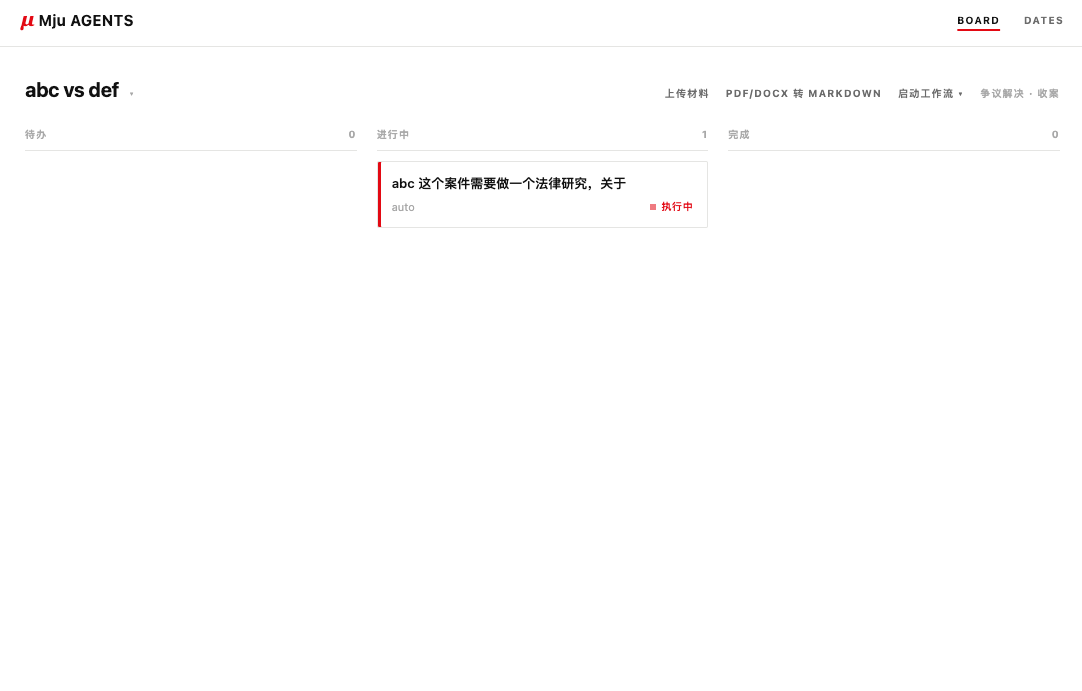
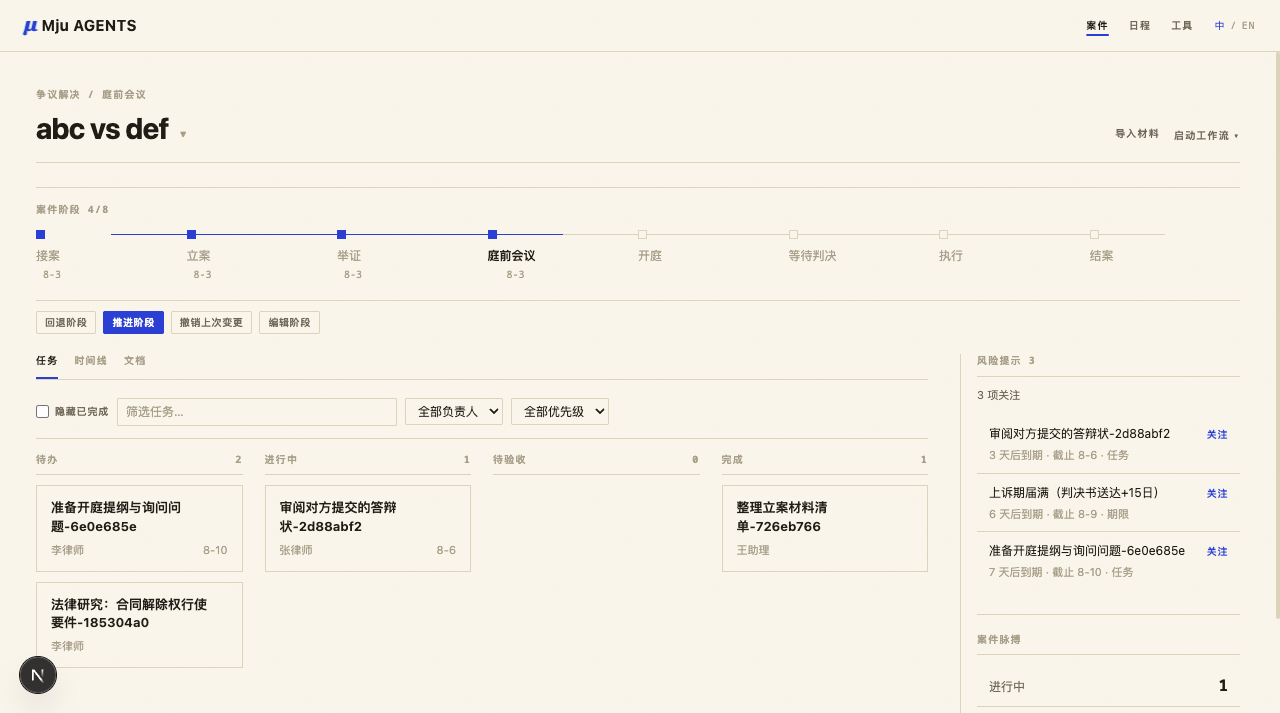
docs: README 按新理念调整（五个页面/驾驶舱/圆珠笔蓝）+ 截图重拍 + zh-CN 同步 + roadmap 状态更新 (#38)

diff --git a/README.zh-CN.md b/README.zh-CN.md
@@ -2,77 +2,54 @@
 
 [npm](https://www.npmjs.com/package/@tttangerine/mju) · [许可证：MIT](./LICENSE) · [路线图](./docs/roadmap.md)
 
-> 你的严格但公正的法律助手：从一句话开始，把经过复核的工作落到正确案件里。
+> Mju 用 AI 替你干活，你在看板验收成果、在日历核对时间。从一句话开始。
 
 ![Mju Agents 进入页](./docs/screenshots/entry-empty.png)
 
 <p align="center">
-  <img src="./docs/screenshots/onboarding.png" alt="Mju 项目初始化" width="49%" />
-  <img src="./docs/screenshots/case-detection.png" alt="Mju 案件识别" width="49%" />
+  <img src="./docs/screenshots/case-board-running.png" alt="Mju 案件驾驶舱看板" width="32%" />
+  <img src="./docs/screenshots/dates.png" alt="Mju 全局 Dates" width="32%" />
+  <img src="./docs/screenshots/tools.png" alt="Mju 工具页" width="32%" />
 </p>
 
-<p align="center">
-  <img src="./docs/screenshots/new-case.png" alt="Mju 新建案件" width="49%" />
-  <img src="./docs/screenshots/case-board-running.png" alt="Mju 运行中的案件看板" width="49%" />
-</p>
+## 截图导览：一条主线，四个场景
 
-截图使用完全虚构的案件和任务数据，不包含客户、案件或账户信息。
+下面这组截图对应一条完整的使用路径：从一句话发起任务，到看板推进与验收，再到日历核对和确定性计算。截图使用虚构的案件与任务数据，不包含任何客户、案件或账户信息。
 
-## 截图导览：从初始化到案件执行
-
-下面这组截图对应一条完整的使用路径：先选择项目文件夹，再从一句话发起任务，让 Mju 识别案件归属，最后进入案件看板推进。
-
-### 1. 初始化项目文件夹
-
-![Mju 项目初始化](./docs/screenshots/onboarding.png)
-
-首次进入 Mju 时，需要选择一个项目文件夹。这个文件夹可以是现有 Obsidian 文件库，也可以是一个空文件夹。
-
-- 勾选「生成标准结构」后，Mju 会创建案件、任务、期限、日程等基础目录，便于后续按案件归档。
-- 勾选「写入 Agent 指导文件」后，Mju 会在项目中写入 `AGENTS.md`，让 Agent 明确这个项目的案件结构和写作规则。
-- 如果选择的是 Obsidian vault，Mju 会尽量识别既有 `ops/cases`、`ops/projects` 等目录，不要求你迁移到一个封闭数据库里。
-
-### 2. 在进入页输入任务
+### 1. 在进入页输入任务
 
 ![Mju 进入页](./docs/screenshots/entry-empty.png)
 
-初始化后会进入主输入页。这里不是普通聊天窗口，而是整个系统的入口。
+进入页只有一个输入框。用日常语言描述事项，Mju 会识别所属案件（识别错了随时可改），在该案件文件夹里启动 Agent，并把原始指令保存为任务。
 
-- 在输入框里直接写要处理的事项，例如「这个案件需要做一个法律研究」。
+- 输入框下方常驻「近期在办」与「优先处理」，不用打字也能看到各案件即将到期和高风险的事项。
 - 右上角可以切换当前项目，也可以点击「新建案件」补建案卷。
-- 输入框下方的 Models、Skills、Agents、Plugins、MinerU、Theme 是运行配置入口，用于切换模型、管理技能、配置子 Agent、配置插件和材料转换能力。
-- 页面下方的「近期在办」用于聚合各案件即将跟进的事项。
+- 页面下方的运行配置入口用于切换模型、管理技能、配置子 Agent、插件与材料转换能力。
 
-### 3. 新建案件并选择类型
+### 2. 在案件看板推进与验收
 
-![Mju 新建案件](./docs/screenshots/new-case.png)
+![Mju 案件看板](./docs/screenshots/case-board-running.png)
 
-如果任务还没有对应案卷，可以在进入页直接新建案件。截图里的「abc vs def」是一个虚构案件名。
+每个案件一个卷宗式驾驶舱：诉讼案件顶部是接案到结案的阶段流程线，下方是任务、时间线、文档选项卡与「优先处理」风险条。
 
-- 案件类型目前区分为争议解决、顾问、专项等，用来决定默认结构和后续工作流。
-- 创建后，案件会进入当前项目的案件列表，后续任务可以直接归属到这个案件。
-- 无法识别归属的任务会进入「通用任务」，避免任务丢失。
+- 任务以四列看板呈现——待办、进行中、待验收、完成——卡片可直接拖拽换列，也支持按关键词、负责人、优先级筛选与隐藏已完成。
+- Agent 执行完毕后任务自动落入「待验收」列，你验收通过才算完成；不满意可打回继续处理。
+- 右上角集中放置案件动作：导入材料、启动工作流、收案。本地 PDF/DOCX 等文件会自动转为 Markdown 沉淀到案卷。
 
-### 4. 识别案件归属并启动 Agent
+### 3. 在 Dates 核对日历
 
-![Mju 案件识别](./docs/screenshots/case-detection.png)
+![Mju 全局 Dates](./docs/screenshots/dates.png)
 
-当你输入任务时，Mju 会根据任务内容识别所属案件。截图中系统将任务识别到「abc vs def」。
+跨案件聚合所有任务截止、诉讼期限和日程，列表 / 周 / 月三种视图，一眼看清近期要跟进什么。
 
-- 如果识别正确，直接点击发送按钮即可启动。
-- 如果识别错误，点击「更改」可以搜索并切换到正确案件。
-- 启动后，Mju 会在该案件文件夹内开启 Agent 会话，并把原始指令保存为案件任务。
+- 材料导入后按法律规则推算的候选期限（如判决书 → 上诉期届满 +15 日）以「待确认」身份进入 Dates，你确认才生效。
+- 到期与逾期用红色倒计时提示，不会漏掉任何一个期限。
 
-### 5. 在案件看板推进
+### 4. 在工具页做确定性计算
 
-![Mju 运行中的案件看板](./docs/screenshots/case-board-running.png)
+![Mju 工具页](./docs/screenshots/tools.png)
 
-任务启动后会进入案件看板。每个案件都有独立看板，用于管理待办、执行中和已完成事项。
-
-- 正在运行的任务会出现在「进行中」列，并显示执行状态。
-- 看板右上角集中放置案件动作：导入材料、启动工作流、争议解决收案。
-- 选取本地 PDF/DOCX 等文件后，系统会自动转为 Markdown 并沉淀到案卷；已有 Markdown 或文本材料则直接归档分析。
-- 任务完成后仍需要人工 Review；Mju 的定位是辅助形成工作成果，不替代律师判断。
+诉讼费、保全费、律师费、迟延履行利息、日期推算、金额转人民币大写，全部由确定性函数得出。Agent 写文书和人工核查数字都用同一套结果，法律文书的数字不会错。
 
 ## 为什么做 Mju
 
@@ -84,7 +61,7 @@
 
 - **每段对话都有目的。** Mju 里的每次对话都落在某一个具体案件里，而不是悬空的闲聊——闲聊请去 ChatBot。案件是法律工作的天然容器：材料、文书、期限、日程、经验，全都应该收在案件里。
 - **入口替你归位。** 输入指令时，Mju 会主动识别它属于哪个案件（识别错了随时可改），顺手把任务、日程、截止时间落下来，并在到期前提醒你。识别不了的先进「通用任务」收件箱，不会丢。
-- **做完不等于完成。** 法律工作需要复核。Agent 产出的每件事都停在「待 Review」状态，由你过目后才算数。
+- **做完不等于完成。** 法律工作需要复核。Agent 产出的每件事都停在「待验收」列，由你过目——材料时限要确认、文案成果要验收——才算数。
 
 ## 从一句话到经你复核的工作
 
@@ -96,12 +73,13 @@
 
 ## 工作台结构
 
-四个页面，就是上面这条主线的展开：
+五个页面，就是上面这条主线的展开：
 
-- **进入页（`/`）**——只有一个输入框。输入指令，自动识别归属案件，在该案件文件夹里启动 Agent 会话。输入框下方常驻「近期在办」，不用打字也能看到各案件即将到期的事项。
-- **案件看板（`/board/[caseId]`）**——每个案件一个看板，回答两个问题：这个案子还有哪些待办？哪些做完了等我 Review？Agent 正在执行的任务卡片上有脉冲标记。
-- **任务子页（`/task/[taskId]`）**——点开任务卡片进入执行现场：左栏是 Agent 的完整工作过程（流式输出、工具调用、分支、导出），右栏是它正在撰写的文档的实时预览，边看边 Review。复杂任务会自动分派给不同的子 Agent——不同模型各有所长，组成 Agent Team 既省 Token、提高命中率，也让产出更贴近各自的标准。
-- **全局 Dates（`/dates`）**——跨案件聚合所有任务截止、诉讼期限和日程，列表 / 周 / 月三种视图，一眼看清近期要跟进什么。
+- **进入页（`/`）**——只有一个输入框。输入指令，自动识别归属案件，在该案件文件夹里启动 Agent 会话。输入框下方常驻「近期在办」与「优先处理」，不用打字也能看到各案件即将到期和高风险的事项。
+- **案件看板（`/board/[caseId]`）**——每个案件一个卷宗式驾驶舱，回答两个问题：这个案子还有哪些待办？哪些做完了等我验收？诉讼案件顶部有从接案到结案的八阶段流程线（可推进 / 回退 / 补记大事记），下方是任务 / 时间线 / 文档三个选项卡与「优先处理」风险条。任务以四列看板呈现——待办、进行中、待验收、完成——卡片可直接拖拽换列，也支持按关键词、负责人、优先级筛选与隐藏已完成。
+- **任务子页（`/task/[taskId]`）**——点开任务卡片进入执行现场：左栏是 Agent 的完整工作过程（流式输出、工具调用、分支、导出），右栏是它正在撰写的文档的实时预览，边看边验收。复杂任务会自动分派给不同的子 Agent——不同模型各有所长，组成 Agent Team 既省 Token、提高命中率，也让产出更贴近各自的标准。
+- **全局 Dates（`/dates`）**——跨案件聚合所有任务截止、诉讼期限和日程，列表 / 周 / 月三种视图，一眼看清近期要跟进什么。材料导入后按法律规则推算的候选期限会以「待确认」身份出现在这里，你确认才生效。
+- **工具页（`/tools`）**——确定性法律计算引擎：诉讼费、保全费、律师费、迟延履行利息、日期推算、金额转人民币大写，全部由确定性函数得出，Agent 写文书和人工核查数字都用同一套结果。
 
 ## 快速开始
 
@@ -139,7 +117,10 @@ mju --no-open                # 不自动打开浏览器
 - **Agent 团队**：可配置的子 Agent（默认 Justice / Magician / Chariot），各自独立的模型、工具和技能；遇到复杂任务运行时会自动分派。
 - **材料自动化**：在案件看板选取本地材料，PDF/DOCX 等文件自动转为 Markdown，已有 Markdown 或文本材料直接归档；系统随后识别起诉状、判决书、合同等类型并归位，生成审阅任务和关键期限。
 - **期限自动聚合**：任务截止、举证期限、开庭日程合并进同一个全局 Dates 视图，逾期标红。
-- **瑞士风设计**：纸白 / 墨黑双主题，全场唯一的信号红点缀，没有多余装饰。
+- **Agent 推算期限，你确认才生效**：材料导入后，按法律规则推算出候选期限（判决书→上诉期 15 天、裁定书→10 天、保全→续封提醒），以「待确认」身份进入 Dates，你确认才参与到期提醒。法律推理有依据，不用自己算每个日期。
+- **干完活落待验收，你过目才算完成**：Agent 任务执行完毕后自动进入「待验收」列，你在看板上验收通过才算完成；不满意可打回继续处理。
+- **确定性计算引擎**：诉讼费、迟延履行利息、金额大写等由确定性函数算出，Agent 写文书时也调用同一接口，法律文书的数字不会错。这些计算器也作为「工具」页独立可用。
+- **瑞士风设计**：纸白 / 墨黑双主题，圆珠笔蓝作为唯一功能强调色，红只留给到期与逾期；没有多余装饰。
 - **本地优先**：会话存在 `~/.pi/agent/sessions`，项目元数据存在 `~/.mju/projects`，数据不出本机。pi 运行时和 `pi-subagents` 已内置，无需单独安装 CLI。
 
 它不是法律意见服务，也不替代专业复核。所有会话文件、案件元数据和凭证都留在你自己的机器上。
@@ -172,3 +153,7 @@ npm run dev    # http://localhost:30143（开发测试端口）
 ```
 
 检查：`npm run typecheck`、`npm run lint`、`npm run test:backend`。开发时不要跑 `next build`。完整文件地图和设计决策见 [AGENTS.md](./AGENTS.md)。
+
+### 发布 npm
+
+合并版本变更后，在 GitHub 仓库的 **Actions** 中运行“**发布版本**”，输入与 `package.json` 和 `CHANGELOG.md` 一致的版本号（例如 `1.8.2`）。工作流会校验版本和更新日志、创建对应版本标签、运行完整校验、发布 npm，并自动创建 GitHub Release。

diff --git a/README.md b/README.md
@@ -7,75 +7,49 @@
 ![Mju Agents 进入页](./docs/screenshots/entry-empty.png)
 
 <p align="center">
-  <img src="./docs/screenshots/onboarding.png" alt="Mju 项目初始化" width="49%" />
-  <img src="./docs/screenshots/case-detection.png" alt="Mju 案件识别" width="49%" />
-</p>
-
-<p align="center">
-  <img src="./docs/screenshots/new-case.png" alt="Mju 新建案件" width="32%" />
-  <img src="./docs/screenshots/case-board-running.png" alt="Mju 运行中的案件看板" width="32%" />
+  <img src="./docs/screenshots/case-board-running.png" alt="Mju 案件驾驶舱看板" width="32%" />
   <img src="./docs/screenshots/dates.png" alt="Mju 全局 Dates" width="32%" />
+  <img src="./docs/screenshots/tools.png" alt="Mju 工具页" width="32%" />
 </p>
 
-> 截图展示的目标状态：工具页（确定性计算引擎）、四列看板（含待验收列）、Dates 视图（含待确认期限与到期倒计时）。请参见各 PR 合入后补录。
+## 截图导览：一条主线，四个场景
 
+下面这组截图对应一条完整的使用路径：从一句话发起任务，到看板推进与验收，再到日历核对和确定性计算。截图使用虚构的案件与任务数据，不包含任何客户、案件或账户信息。
 
-
-## 截图导览：从初始化到案件执行
-
-下面这组截图对应一条完整的使用路径：先选择项目文件夹，再从一句话发起任务，让 Mju 识别案件归属，最后进入案件看板推进。
-
-### 1. 初始化项目文件夹
-
-![Mju 项目初始化](./docs/screenshots/onboarding.png)
-
-首次进入 Mju 时，需要选择一个项目文件夹。这个文件夹可以是现有 Obsidian 文件库，也可以是一个空文件夹。
-
-- 勾选「生成标准结构」后，Mju 会创建案件、任务、期限、日程等基础目录，便于后续按案件归档。
-- 勾选「写入 Agent 指导文件」后，Mju 会在项目中写入 `AGENTS.md`，让 Agent 明确这个项目的案件结构和写作规则。
-- 如果选择的是 Obsidian vault，Mju 会尽量识别既有 `ops/cases`、`ops/projects` 等目录，不要求你迁移到一个封闭数据库里。
-
-### 2. 在进入页输入任务
+### 1. 在进入页输入任务
 
 ![Mju 进入页](./docs/screenshots/entry-empty.png)
 
-初始化后会进入主输入页。这里不是普通聊天窗口，而是整个系统的入口。
+进入页只有一个输入框。用日常语言描述事项，Mju 会识别所属案件（识别错了随时可改），在该案件文件夹里启动 Agent，并把原始指令保存为任务。
 
-- 在输入框里直接写要处理的事项，例如「这个案件需要做一个法律研究」。
+- 输入框下方常驻「近期在办」与「优先处理」，不用打字也能看到各案件即将到期和高风险的事项。
 - 右上角可以切换当前项目，也可以点击「新建案件」补建案卷。
-- 输入框下方的 Models、Skills、Agents、Plugins、MinerU、Theme 是运行配置入口，用于切换模型、管理技能、配置子 Agent、配置插件和材料转换能力。
-- 页面下方的「近期在办」用于聚合各案件即将跟进的事项。
+- 页面下方的运行配置入口用于切换模型、管理技能、配置子 Agent、插件与材料转换能力。
 
-### 3. 新建案件并选择类型
+### 2. 在案件看板推进与验收
 
-![Mju 新建案件](./docs/screenshots/new-case.png)
+![Mju 案件看板](./docs/screenshots/case-board-running.png)
 
-如果任务还没有对应案卷，可以在进入页直接新建案件。截图里的「abc vs def」是一个虚构案件名。
+每个案件一个卷宗式驾驶舱：诉讼案件顶部是接案到结案的阶段流程线，下方是任务、时间线、文档选项卡与「优先处理」风险条。
 
-- 案件类型目前区分为争议解决、顾问、专项等，用来决定默认结构和后续工作流。
-- 创建后，案件会进入当前项目的案件列表，后续任务可以直接归属到这个案件。
-- 无法识别归属的任务会进入「通用任务」，避免任务丢失。
+- 任务以四列看板呈现——待办、进行中、待验收、完成——卡片可直接拖拽换列，也支持按关键词、负责人、优先级筛选与隐藏已完成。
+- Agent 执行完毕后任务自动落入「待验收」列，你验收通过才算完成；不满意可打回继续处理。
+- 右上角集中放置案件动作：导入材料、启动工作流、收案。本地 PDF/DOCX 等文件会自动转为 Markdown 沉淀到案卷。
 
-### 4. 识别案件归属并启动 Agent
+### 3. 在 Dates 核对日历
 
-![Mju 案件识别](./docs/screenshots/case-detection.png)
+![Mju 全局 Dates](./docs/screenshots/dates.png)
 
-当你输入任务时，Mju 会根据任务内容识别所属案件。截图中系统将任务识别到「abc vs def」。
+跨案件聚合所有任务截止、诉讼期限和日程，列表 / 周 / 月三种视图，一眼看清近期要跟进什么。
 
-- 如果识别正确，直接点击发送按钮即可启动。
-- 如果识别错误，点击「更改」可以搜索并切换到正确案件。
-- 启动后，Mju 会在该案件文件夹内开启 Agent 会话，并把原始指令保存为案件任务。
+- 材料导入后按法律规则推算的候选期限（如判决书 → 上诉期届满 +15 日）以「待确认」身份进入 Dates，你确认才生效。
+- 到期与逾期用红色倒计时提示，不会漏掉任何一个期限。
 
-### 5. 在案件看板推进
+### 4. 在工具页做确定性计算
 
-![Mju 运行中的案件看板](./docs/screenshots/case-board-running.png)
+![Mju 工具页](./docs/screenshots/tools.png)
 
-任务启动后会进入案件看板。每个案件都有独立看板，用于管理待办、执行中和已完成事项。
-
-- 正在运行的任务会出现在「进行中」列，并显示执行状态。
-- 看板右上角集中放置案件动作：导入材料、启动工作流、争议解决收案。
-- 选取本地 PDF/DOCX 等文件后，系统会自动转为 Markdown 并沉淀到案卷；已有 Markdown 或文本材料则直接归档分析。
-- 任务完成后仍需要人工 Review；Mju 的定位是辅助形成工作成果，不替代律师判断。
+诉讼费、保全费、律师费、迟延履行利息、日期推算、金额转人民币大写，全部由确定性函数得出。Agent 写文书和人工核查数字都用同一套结果，法律文书的数字不会错。
 
 ## 为什么做 Mju
 
@@ -87,7 +61,7 @@
 
 - **每段对话都有目的。** Mju 里的每次对话都落在某一个具体案件里，而不是悬空的闲聊——闲聊请去 ChatBot。案件是法律工作的天然容器：材料、文书、期限、日程、经验，全都应该收在案件里。
 - **入口替你归位。** 输入指令时，Mju 会主动识别它属于哪个案件（识别错了随时可改），顺手把任务、日程、截止时间落下来，并在到期前提醒你。识别不了的先进「通用任务」收件箱，不会丢。
-	- **做完不等于完成。** 法律工作需要复核。Agent 产出的每件事都停在「待验收」列，由你过目——材料时限要确认、文案成果要验收——才算数。
+- **做完不等于完成。** 法律工作需要复核。Agent 产出的每件事都停在「待验收」列，由你过目——材料时限要确认、文案成果要验收——才算数。
 
 ## 从一句话到经你复核的工作
 
@@ -99,12 +73,13 @@
 
 ## 工作台结构
 
-四个页面，就是上面这条主线的展开：
+五个页面，就是上面这条主线的展开：
 
-- **进入页（`/`）**——只有一个输入框。输入指令，自动识别归属案件，在该案件文件夹里启动 Agent 会话。输入框下方常驻「近期在办」，不用打字也能看到各案件即将到期的事项。
-- **案件看板（`/board/[caseId]`）**——每个案件一个看板，回答两个问题：这个案子还有哪些待办？哪些做完了等我 Review？Agent 正在执行的任务卡片上有脉冲标记。
-- **任务子页（`/task/[taskId]`）**——点开任务卡片进入执行现场：左栏是 Agent 的完整工作过程（流式输出、工具调用、分支、导出），右栏是它正在撰写的文档的实时预览，边看边 Review。复杂任务会自动分派给不同的子 Agent——不同模型各有所长，组成 Agent Team 既省 Token、提高命中率，也让产出更贴近各自的标准。
-- **全局 Dates（`/dates`）**——跨案件聚合所有任务截止、诉讼期限和日程，列表 / 周 / 月三种视图，一眼看清近期要跟进什么。
+- **进入页（`/`）**——只有一个输入框。输入指令，自动识别归属案件，在该案件文件夹里启动 Agent 会话。输入框下方常驻「近期在办」与「优先处理」，不用打字也能看到各案件即将到期和高风险的事项。
+- **案件看板（`/board/[caseId]`）**——每个案件一个卷宗式驾驶舱，回答两个问题：这个案子还有哪些待办？哪些做完了等我验收？诉讼案件顶部有从接案到结案的八阶段流程线（可推进 / 回退 / 补记大事记），下方是任务 / 时间线 / 文档三个选项卡与「优先处理」风险条。任务以四列看板呈现——待办、进行中、待验收、完成——卡片可直接拖拽换列，也支持按关键词、负责人、优先级筛选与隐藏已完成。
+- **任务子页（`/task/[taskId]`）**——点开任务卡片进入执行现场：左栏是 Agent 的完整工作过程（流式输出、工具调用、分支、导出），右栏是它正在撰写的文档的实时预览，边看边验收。复杂任务会自动分派给不同的子 Agent——不同模型各有所长，组成 Agent Team 既省 Token、提高命中率，也让产出更贴近各自的标准。
+- **全局 Dates（`/dates`）**——跨案件聚合所有任务截止、诉讼期限和日程，列表 / 周 / 月三种视图，一眼看清近期要跟进什么。材料导入后按法律规则推算的候选期限会以「待确认」身份出现在这里，你确认才生效。
+- **工具页（`/tools`）**——确定性法律计算引擎：诉讼费、保全费、律师费、迟延履行利息、日期推算、金额转人民币大写，全部由确定性函数得出，Agent 写文书和人工核查数字都用同一套结果。
 
 ## 快速开始
 
@@ -145,7 +120,7 @@ mju --no-open                # 不自动打开浏览器
 - **Agent 推算期限，你确认才生效**：材料导入后，按法律规则推算出候选期限（判决书→上诉期 15 天、裁定书→10 天、保全→续封提醒），以「待确认」身份进入 Dates，你确认才参与到期提醒。法律推理有依据，不用自己算每个日期。
 - **干完活落待验收，你过目才算完成**：Agent 任务执行完毕后自动进入「待验收」列，你在看板上验收通过才算完成；不满意可打回继续处理。
 - **确定性计算引擎**：诉讼费、迟延履行利息、金额大写等由确定性函数算出，Agent 写文书时也调用同一接口，法律文书的数字不会错。这些计算器也作为「工具」页独立可用。
-- **瑞士风设计**：纸白 / 墨黑双主题，全场唯一的信号红点缀，没有多余装饰。
+- **瑞士风设计**：纸白 / 墨黑双主题，圆珠笔蓝作为唯一功能强调色，红只留给到期与逾期；没有多余装饰。
 - **本地优先**：会话存在 `~/.pi/agent/sessions`，项目元数据存在 `~/.mju/projects`，数据不出本机。pi 运行时和 `pi-subagents` 已内置，无需单独安装 CLI。
 
 它不是法律意见服务，也不替代专业复核。所有会话文件、案件元数据和凭证都留在你自己的机器上。
@@ -181,4 +156,4 @@ npm run dev    # http://localhost:30143（开发测试端口）
 
 ### 发布 npm
 
-合并版本变更后，在 GitHub 仓库的 **Actions** 中运行“**发布版本**”，输入与 `package.json` 和 `CHANGELOG.md` 一致的版本号（例如 `1.7.5`）。工作流会校验版本和更新日志、创建 `v1.7.5` 标签、运行完整校验、发布 npm，并自动创建 GitHub Release。
+合并版本变更后，在 GitHub 仓库的 **Actions** 中运行“**发布版本**”，输入与 `package.json` 和 `CHANGELOG.md` 一致的版本号（例如 `1.8.2`）。工作流会校验版本和更新日志、创建对应版本标签、运行完整校验、发布 npm，并自动创建 GitHub Release。

diff --git a/docs/roadmap.md b/docs/roadmap.md
@@ -2,7 +2,7 @@
 
 > 本文档是 Mju Agents 的产品和技术规划，供人类开发者和 AI Agent 共同阅读。
 >
-> 当前状态：**第一、二阶段已完成；第三阶段工作流已完成（前后端均已接入）；IA 重构（进入页 → Board → Dates → 任务子页）已完成；第四阶段交付物/DOCX 已完成；第五阶段通用化与开源准备已完成（5.1/5.3/5.4 完成，5.2 核心配置外置完成，Obsidian 路径映射延后）；第六阶段材料自动化 MVP 已完成。**
+> 当前状态：**第一、二阶段已完成；第三阶段工作流已完成（前后端均已接入）；IA 重构（进入页 → Board → Dates → 任务子页）已完成；第四阶段交付物/DOCX 已完成；第五阶段通用化与开源准备已完成（5.1/5.3/5.4 完成，5.2 核心配置外置完成，Obsidian 路径映射延后）；第六阶段材料自动化 MVP 已完成；1.8.x 增强已完成——纸感视觉改版与圆珠笔蓝强调色（1.8.0）、案件驾驶舱（1.8.1）、确定性计算引擎 / 期限提议-确认闭环 / 看板待验收列（1.8.2）、看板拖拽与筛选、阶段补记与自定义阶段、Dates 月视图修复。**
 
 ## 目标
 
